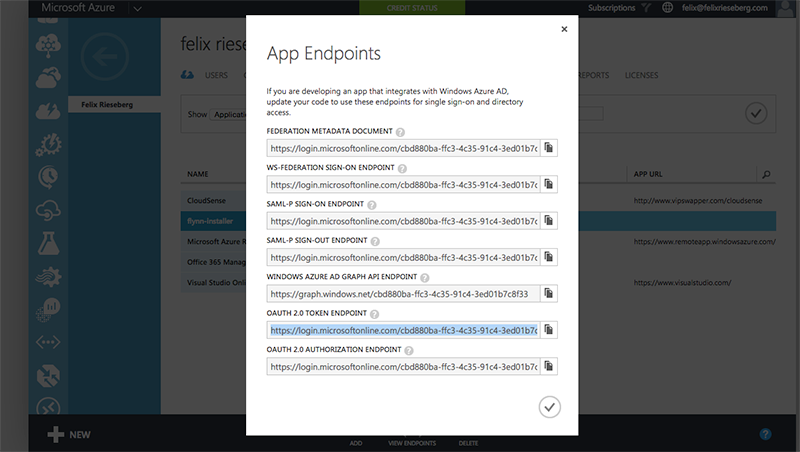
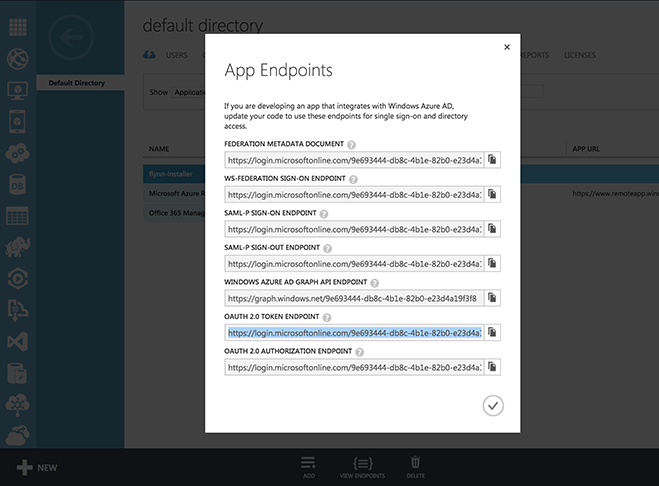
installer: Update screenshot for Azure creds
refs 6a43bae

diff --git a/installer/app/src/views/azure-create-app-tutorial.js.jsx b/installer/app/src/views/azure-create-app-tutorial.js.jsx
@@ -143,7 +143,7 @@ var AzureCreateAppTutorial = React.createClass({
 				<li>
 					<img src={AssetPaths["azure-app-12.png"]}  style={{
 						width: 659,
-						height: 372
+						height: 486
 					}}/>
 					<label>
 						<p>Click on the back arrow button to go back to the "APPLICATIONS" tab click and the "ENDPOINTS" button at the bottom</p>
